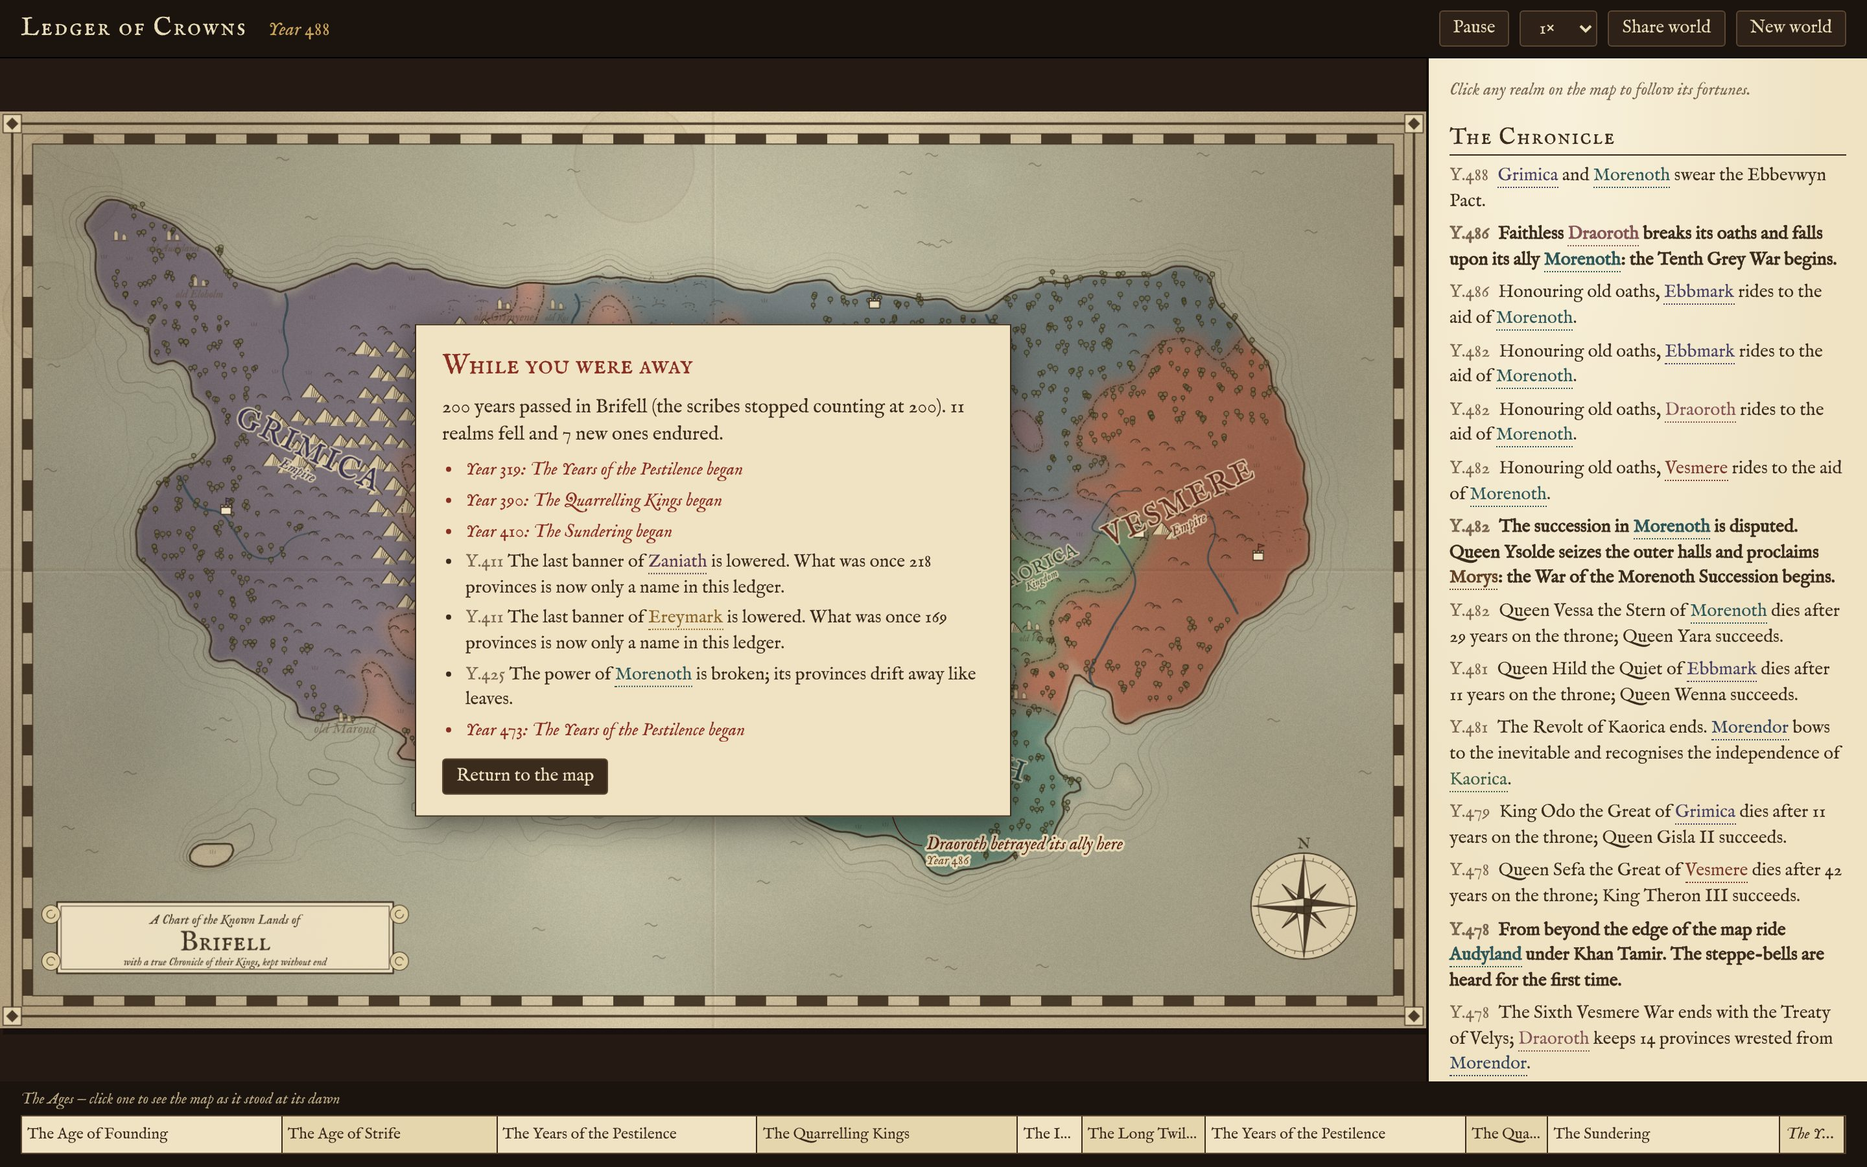
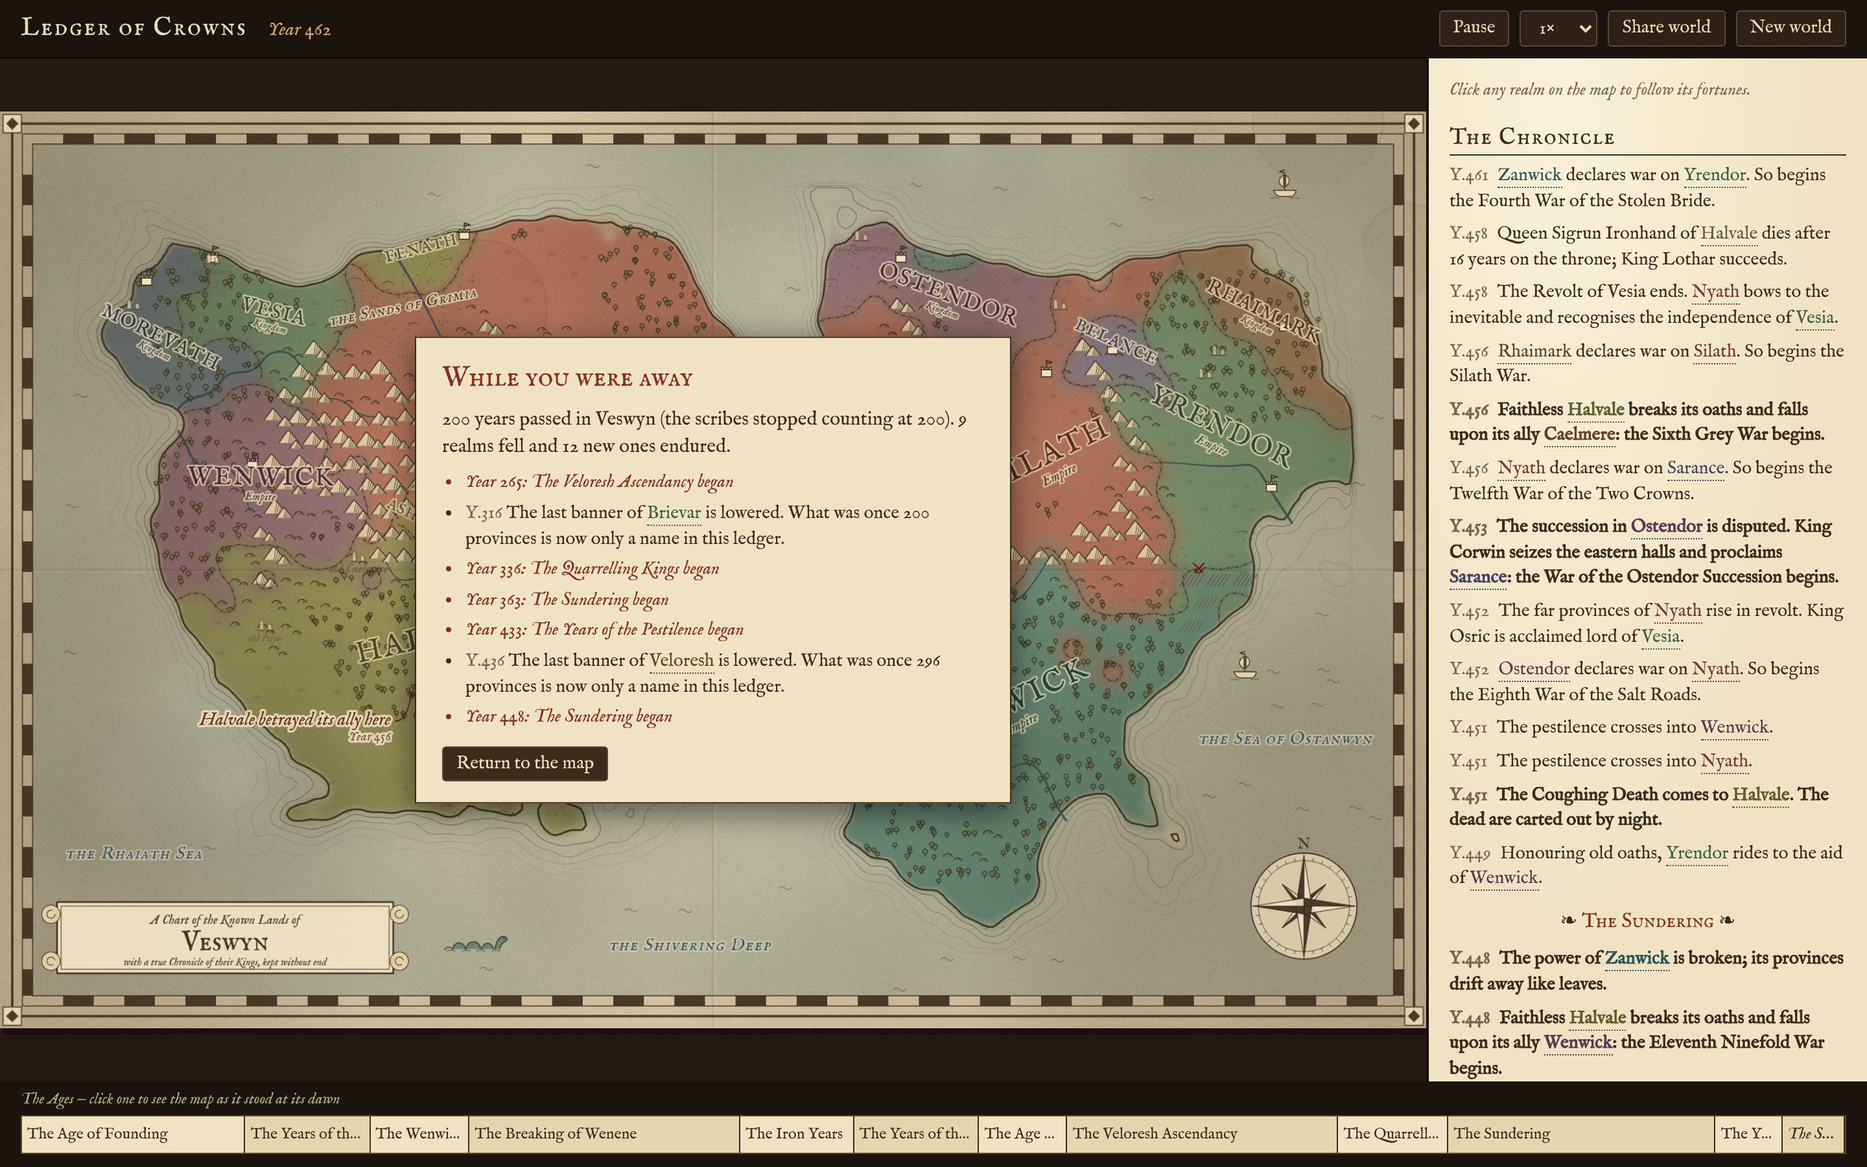
Give every world its own geography
- Worlds take one of four shapes: continent, twin lands across a strait, a
  continent around an inland sea, or an archipelago.
- Mountains follow ridgelines and form ranges.
- Seas, lakes, ranges, forests and deserts are named on the map.
- Dotted sea lanes link separate landmasses so islands can be reached.
- Ships and a sea serpent in open water; nothing crosses the frame.
- Saves move to a new key, since the same seed now makes different terrain.

Claude-Session: https://claude.ai/code/session_01HbhNXhFmDXk7axxV6X9tAC

diff --git a/index.html b/index.html
@@ -247,7 +247,7 @@ function warName(B) {
 
 // ---------- world state ----------
 let seed, worldName, gw, gh, F, thr, hexes, land, landCount, rivers, owner, distArr;
-let COLS, ROWS, X0, Y0, gOff, gHex, gW, liveFields, liveBorders, snapFields, snapBorders;
+let innerSea, archetype, features, lanes, seaBoxes = [], COLS, ROWS, X0, Y0, gOff, gHex, gW, liveFields, liveBorders, snapFields, snapBorders;
 let factions, wars, chron, eras, ruins, notes, tick, collapse, lastWarYear;
 let paperC, inkC, washC, washTmp, landBig, snapWashC, labels, snapLabels;
 let labelBoxes = [], dirty = true, ovDirty = true, follow = null, viewEra = null, ovC;
@@ -264,13 +264,26 @@ function decoPenalty(x, y) {
 function genWorld(s) {
   seed = s; rs = s | 0; R = rngNext;
   usedNames = new Set(); usedWars = new Map();
-  const nE = makeNoise(R), nE2 = makeNoise(R), nM = makeNoise(R);
+  const nE = makeNoise(R), nE2 = makeNoise(R), nM = makeNoise(R), nR = makeNoise(R);
+  // each world takes one of a few shapes, so they don't all look alike
+  archetype = pick(['continent', 'continent', 'twin', 'inland', 'archipelago']);
+  const ox = rnd(-.1, .1), oy = rnd(-.08, .08), wig = rnd(0, 6.3);
+  innerSea = { x: (.5 + ox) * MW, y: (.5 + oy) * MH };
   const elev = (x, y) => {
-    const e = fbm(nE, x / 330, y / 330, 5) * .8 + fbm(nE2, x / 105, y / 105, 3) * .2;
+    const u = x / MW, v = y / MH;
+    const e = archetype === 'archipelago'
+      ? fbm(nE, x / 190, y / 190, 5) * .7 + fbm(nE2, x / 80, y / 80, 3) * .3
+      : fbm(nE, x / 330, y / 330, 5) * .8 + fbm(nE2, x / 105, y / 105, 3) * .2;
     const ex = Math.min(x - MARGIN, MW - MARGIN - x) / (MW * .2), ey = Math.min(y - MARGIN, MH - MARGIN - y) / (MH * .22);
     const edge = smooth(clamp(Math.min(ex, ey), 0, 1));
-    return e - (1 - edge) * .35 - decoPenalty(x, y);
+    let sh = -(1 - edge) * (archetype === 'archipelago' ? .22 : .35);
+    if (archetype === 'twin') sh -= .3 * Math.exp(-(((u - .5 - ox * .5 - .06 * Math.sin(v * 5 + wig)) / .045) ** 2));    // a winding strait
+    if (archetype === 'inland') sh -= .32 * Math.exp(-(((u - .5 - ox) / .16) ** 2 + ((v - .5 - oy) / .13) ** 2));        // a sea at the heart
+    // nothing may cross the frame: the last 40 units inside it are always sea
+    sh -= .6 * (1 - smooth(clamp(Math.min(x - MARGIN, MW - MARGIN - x, y - MARGIN, MH - MARGIN - y) / 40, 0, 1)));
+    return e + sh - decoPenalty(x, y);
   };
+  const ridge = (x, y) => 1 - Math.abs(2 * fbm(nR, x / 170, y / 170, 4) - 1);
   gw = Math.ceil(MW / GS) + 1; gh = Math.ceil(MH / GS) + 1;
   F = new Float32Array(gw * gh);
   const inside = [];
@@ -280,7 +293,7 @@ function genWorld(s) {
     if (x > MARGIN && x < MW - MARGIN && y > MARGIN && y < MH - MARGIN) inside.push(v);
   }
   inside.sort((a, b) => a - b);
-  thr = inside[Math.floor(inside.length * .54)];
+  thr = inside[Math.floor(inside.length * (1 - ({ archipelago: .37, inland: .5 }[archetype] || .46)))];
 
   // hex grid (pointy-top, odd rows shifted right)
   const cols = Math.floor((MW - 2 * MARGIN - SQ3 * HR / 2) / (SQ3 * HR));
@@ -290,28 +303,24 @@ function genWorld(s) {
   hexes = [];
   for (let r = 0; r < rows; r++) for (let c = 0; c < cols; c++) {
     const x = x0 + SQ3 * HR * (c + .5 * (r & 1)), y = y0 + 1.5 * HR * r;
-    hexes.push({ i: hexes.length, c, r, x, y, e: elev(x, y), m: fbm(nM, x / 210, y / 210, 4), nb: [], ed: [], river: false, lastCap: -999 });
+    hexes.push({ i: hexes.length, c, r, x, y, e: elev(x, y), m: fbm(nM, x / 210, y / 210, 4), rg: ridge(x, y), nb: [], river: false, lastCap: -999 });
   }
   const at = (c, r) => (c < 0 || r < 0 || c >= cols || r >= rows) ? null : hexes[r * cols + c];
   const DIR = [[[1,0],[0,-1],[-1,-1],[-1,0],[-1,1],[0,1]], [[1,0],[1,-1],[0,-1],[-1,0],[0,1],[1,1]]];
   for (const h of hexes) {
     h.land = h.e > thr;
-    const corners = [];
-    for (let k = 0; k < 6; k++) { const a = Math.PI / 180 * (60 * k - 90); corners.push([h.x + HR * Math.cos(a), h.y + HR * Math.sin(a)]); }
-    for (const [dc, dr] of DIR[h.r & 1]) {
-      const n = at(h.c + dc, h.r + dr); if (!n) continue;
-      const cs = corners.map(p => [Math.hypot(p[0] - n.x, p[1] - n.y), p]).sort((a, b) => a[0] - b[0]);
-      h.nb.push(n.i); h.ed.push([cs[0][1][0], cs[0][1][1], cs[1][1][0], cs[1][1][1]]);
-    }
+    for (const [dc, dr] of DIR[h.r & 1]) { const n = at(h.c + dc, h.r + dr); if (n) h.nb.push(n.i); }
   }
   land = hexes.filter(h => h.land);
   landCount = land.length;
   const emax = Math.max(...land.map(h => h.e));
   const ms = land.map(h => h.m).sort((a, b) => a - b);
   const dryQ = ms[Math.floor(ms.length * .15)], wetQ = ms[Math.floor(ms.length * .62)];
+  // mountains follow ridgelines through the high ground, so they form ranges rather than blobs
+  for (const h of land) h.ms = h.rg * .65 + (h.e - thr) / (emax - thr) * .35;
+  const mq = land.map(h => h.ms).sort((a, b) => b - a), mtnQ = mq[Math.floor(mq.length * .11)], hillQ = mq[Math.floor(mq.length * .25)];
   for (const h of land) {
-    const en = (h.e - thr) / (emax - thr);
-    h.terrain = en > .6 ? 'mountain' : en > .42 ? 'hills' : h.m < dryQ ? 'desert' : h.m > wetQ ? 'forest' : 'plains';
+    h.terrain = h.ms >= mtnQ ? 'mountain' : h.ms >= hillQ ? 'hills' : h.m < dryQ ? 'desert' : h.m > wetQ ? 'forest' : 'plains';
     h.coast = h.nb.some(n => !hexes[n].land);
   }
   // rivers: walk downhill from high ground to the sea
@@ -337,6 +346,79 @@ function genWorld(s) {
     h.def = { plains: 1, forest: 1.3, hills: 1.5, desert: 1.1, mountain: 2.3 }[h.terrain];
   }
   worldName = placeName();
+  nameGeography();
+  buildLanes();
+}
+
+// connected groups of hexes matching a test, using plain adjacency
+function components(test) {
+  const comp = new Int32Array(hexes.length).fill(-1), groups = [];
+  for (const h of hexes) {
+    if (comp[h.i] >= 0 || !test(h)) continue;
+    const g = [h]; comp[h.i] = groups.length;
+    for (let k = 0; k < g.length; k++) for (const n of g[k].nb) if (comp[n] < 0 && test(hexes[n])) { comp[n] = groups.length; g.push(hexes[n]); }
+    groups.push(g);
+  }
+  return { comp, groups };
+}
+function shapeOf(g) {
+  let sx = 0, sy = 0, sxx = 0, syy = 0, sxy = 0;
+  for (const h of g) { sx += h.x; sy += h.y; sxx += h.x * h.x; syy += h.y * h.y; sxy += h.x * h.y; }
+  const n = g.length, mx = sx / n, my = sy / n, cxx = sxx / n - mx * mx, cyy = syy / n - my * my, cxy = sxy / n - mx * my;
+  let best = g[0], bd = Infinity;
+  for (const h of g) { const d = (h.x - mx) ** 2 + (h.y - my) ** 2; if (d < bd) { bd = d; best = h; } }
+  return { x: (mx + best.x) / 2, y: (my + best.y) / 2, ang: n < 4 ? 0 : clamp(.5 * Math.atan2(2 * cxy, cxx - cyy), -.6, .6), n };
+}
+// seas, lakes, ranges, forests and wastes each get a name, as on any proper map
+function nameGeography() {
+  features = [];
+  const ADJ = ['Grey', 'Whispering', 'Sunless', 'Drowned', 'Silver', 'Cold', 'Amber', 'Shivering', 'Glass'];
+  const add = (kind, g, name, size) => features.push({ kind, name, size, ...shapeOf(g) });
+  for (const g of components(h => h.land && h.terrain === 'mountain').groups) if (g.length >= 4)
+    add('land', g, pick([`the ${placeName()} Mountains`, `the ${placeName()} Peaks`, `the Spine of ${placeName()}`, `the ${placeName()} Teeth`]), clamp(11 + Math.sqrt(g.length) * 1.2, 13, 19));
+  for (const g of components(h => h.land && h.terrain === 'forest').groups) if (g.length >= 7)
+    add('land', g, pick([`the ${placeName()} Wood`, `${placeName()} Forest`, `the Greenwood of ${placeName()}`]), clamp(11 + Math.sqrt(g.length), 13, 18));
+  for (const g of components(h => h.land && h.terrain === 'desert').groups) if (g.length >= 5)
+    add('land', g, pick([`the ${placeName()} Waste`, `the Sands of ${placeName()}`]), clamp(11 + Math.sqrt(g.length), 13, 18));
+  // inland waters: sea that never reaches the edge of the chart
+  const water = components(h => !h.land);
+  for (const g of water.groups) {
+    if (g.some(h => h.c === 0 || h.r === 0 || h.c === COLS - 1 || h.r === ROWS - 1) || g.length < 3) continue;
+    add('sea', g, g.length < 12 ? `Lake ${placeName()}` : pick([`the Inner Sea`, `the ${placeName()} Sea`, `the Sea of ${placeName()}`]), clamp(10 + Math.sqrt(g.length) * 1.2, 11, 20));
+  }
+  // open water: name the parts of the ocean furthest from any shore
+  const dist = new Int16Array(hexes.length).fill(-1), q = [];
+  for (const h of land) { dist[h.i] = 0; q.push(h.i); }
+  for (let k = 0; k < q.length; k++) for (const n of hexes[q[k]].nb) if (dist[n] < 0) { dist[n] = dist[q[k]] + 1; q.push(n); }
+  const open = hexes.filter(h => !h.land && dist[h.i] >= 2 && decoPenalty(h.x, h.y) < .01 && h.x > MARGIN + 90 && h.x < MW - MARGIN - 90 && h.y > MARGIN + 30 && h.y < MH - MARGIN - 30)
+    .sort((a, b) => dist[b.i] - dist[a.i] + (R() - .5));
+  const spots = [];
+  // a world built around an inland sea names it first
+  if (archetype === 'inland') {
+    const c = hexes.filter(h => !h.land).reduce((a, h) => Math.hypot(h.x - innerSea.x, h.y - innerSea.y) < Math.hypot(a.x - innerSea.x, a.y - innerSea.y) ? h : a);
+    if (Math.hypot(c.x - innerSea.x, c.y - innerSea.y) < 60) { spots.push(c); features.push({ kind: 'sea', name: pick([`the Inner Sea`, `the Sea of ${placeName()}`, `the ${placeName()} Sea`]), size: 19, x: c.x, y: c.y, ang: 0, n: 99 }); }
+  }
+  const inner = spots.length;
+  for (const h of open) if (spots.length < 3 + inner && spots.every(o => Math.hypot(o.x - h.x, o.y - h.y) > 380)) spots.push(h);
+  for (const h of spots.slice(inner)) features.push({ kind: 'sea', name: pick([`the ${placeName()} Sea`, `the Sea of ${placeName()}`, `the ${pick(ADJ)} Reach`, `the ${pick(ADJ)} Deep`]), size: 17, x: h.x, y: h.y, ang: 0, n: 99 });
+  features.openSea = open.filter(h => dist[h.i] >= 3);
+}
+// short crossings between separate landmasses, so islands are reachable by ship
+function buildLanes() {
+  lanes = [];
+  const { comp } = components(h => h.land), coast = land.filter(h => h.coast), cand = [];
+  for (let a = 0; a < coast.length; a++) for (let b = a + 1; b < coast.length; b++) {
+    const h = coast[a], g = coast[b]; if (comp[h.i] === comp[g.i]) continue;
+    const d = Math.hypot(h.x - g.x, h.y - g.y); if (d < 70) cand.push([d, h, g]);
+  }
+  cand.sort((p, q) => p[0] - q[0]);
+  const perPair = new Map();
+  for (const [, h, g] of cand) {
+    const key = Math.min(comp[h.i], comp[g.i]) + ':' + Math.max(comp[h.i], comp[g.i]), got = perPair.get(key) || [];
+    if (got.length >= 2 || got.some(([p, q]) => Math.hypot(p.x - h.x, p.y - h.y) < 120 || Math.hypot(q.x - g.x, q.y - g.y) < 120)) continue;
+    got.push([h, g]); perPair.set(key, got);
+    h.nb.push(g.i); g.nb.push(h.i); lanes.push([h, g]);
+  }
 }
 
 // ---------- marching squares ----------
@@ -580,9 +662,60 @@ function renderInk() {
     }
   }
   x.globalAlpha = 1;
+  drawSeaLife(x);
   drawFrame(x); drawCompass(x); drawCartouche(x);
 }
 
+function spacedLabel(x, text, px, py, ang, size, color, halo) {
+  x.save(); x.translate(px, py); x.rotate(ang);
+  x.font = `italic ${size}px "IM Fell English SC", Georgia, serif`; x.textAlign = 'center'; x.textBaseline = 'middle';
+  const t = text.split('').join('\u200a');
+  if (halo) { x.lineWidth = 3; x.strokeStyle = halo; x.strokeText(t, 0, 0); }
+  x.fillStyle = color; x.fillText(t, 0, 0);
+  const w = x.measureText(t).width; x.restore();
+  const ca = Math.abs(Math.cos(ang)), sa = Math.abs(Math.sin(ang)), hx = ca * w / 2 + sa * size * .6, hy = sa * w / 2 + ca * size * .6;
+  return { x0: px - hx, x1: px + hx, y0: py - hy, y1: py + hy };
+}
+function drawSeaLife(x) {
+  const sr = mulberry32(seed ^ 0x5ea);
+  x.save();
+  // sea lanes: dotted crossings between landmasses
+  x.strokeStyle = '#3d5560'; x.globalAlpha = .55; x.lineWidth = 1; x.setLineDash([.1, 4]); x.lineCap = 'round';
+  for (const [a, b] of lanes) {
+    const mx = (a.x + b.x) / 2, my = (a.y + b.y) / 2, nx = -(b.y - a.y) * .18, ny = (b.x - a.x) * .18;
+    x.beginPath(); x.moveTo(a.x, a.y); x.quadraticCurveTo(mx + nx, my + ny, b.x, b.y); x.stroke();
+  }
+  x.setLineDash([]); x.globalAlpha = 1;
+  // names of seas and lakes
+  seaBoxes = [];
+  for (const f of features) if (f.kind === 'sea') seaBoxes.push(spacedLabel(x, f.name, f.x, f.y, f.ang, f.size, '#3d5560', 'rgba(222,214,190,.6)'));
+  // a few ships and, somewhere far out, a serpent
+  const free = features.openSea.filter(h => seaBoxes.every(b => h.x < b.x0 - 40 || h.x > b.x1 + 40 || h.y < b.y0 - 30 || h.y > b.y1 + 30));
+  const used = [];
+  const spot = () => { for (let k = 0; k < 60 && free.length; k++) { const h = free[Math.floor(sr() * free.length)]; if (used.every(u => Math.hypot(u.x - h.x, u.y - h.y) > 200)) { used.push(h); return h; } } return null; };
+  for (let k = 0; k < 3; k++) { const h = spot(); if (h) ship(x, h.x, h.y, sr() < .5 ? -1 : 1); }
+  const sp = spot(); if (sp) serpent(x, sp.x, sp.y);
+  x.restore();
+}
+function ship(x, px, py, dir) {
+  x.save(); x.translate(px, py); x.scale(dir, 1); x.strokeStyle = INK; x.lineWidth = .9; x.fillStyle = '#e8d9b2'; x.globalAlpha = .9;
+  x.beginPath(); x.moveTo(-11, 0); x.lineTo(11, 0); x.quadraticCurveTo(9, 5, 5, 6); x.lineTo(-7, 6); x.quadraticCurveTo(-11, 4, -11, 0); x.closePath(); x.fill(); x.stroke();
+  x.beginPath(); x.moveTo(0, 0); x.lineTo(0, -17); x.stroke();
+  x.beginPath(); x.moveTo(-1, -15); x.quadraticCurveTo(-8, -10, -1, -4); x.closePath(); x.fill(); x.stroke();
+  x.beginPath(); x.moveTo(1, -15); x.quadraticCurveTo(10, -9, 1, -3); x.closePath(); x.fill(); x.stroke();
+  x.beginPath(); x.moveTo(0, -17); x.lineTo(5, -18.5); x.lineTo(0, -20); x.stroke();
+  x.globalAlpha = .45; x.beginPath(); x.moveTo(-14, 8); x.quadraticCurveTo(-10, 6.5, -6, 8); x.moveTo(6, 8); x.quadraticCurveTo(10, 6.5, 14, 8); x.stroke();
+  x.restore();
+}
+function serpent(x, px, py) {
+  x.save(); x.translate(px, py); x.strokeStyle = INK; x.lineWidth = 1; x.fillStyle = '#5e7a72'; x.globalAlpha = .85;
+  for (const [cx, r] of [[-18, 6], [-4, 7], [10, 5.5]]) { x.beginPath(); x.arc(cx, 2, r, Math.PI, 0); x.fill(); x.stroke(); }
+  x.beginPath(); x.moveTo(17, 2); x.quadraticCurveTo(20, -12, 27, -10); x.quadraticCurveTo(31, -8, 27, -5); x.quadraticCurveTo(23, -4, 22, 2); x.fill(); x.stroke();
+  x.fillStyle = INK; x.beginPath(); x.arc(26, -8.5, .9, 0, 7); x.fill();
+  x.beginPath(); x.moveTo(-24, 2); x.quadraticCurveTo(-30, -2, -32, 3); x.stroke();
+  x.globalAlpha = .45; x.beginPath(); for (const cx of [-26, -11, 3, 18]) { x.moveTo(cx - 4, 4); x.quadraticCurveTo(cx, 2.5, cx + 4, 4); } x.stroke();
+  x.restore();
+}
 function drawFrame(x) {
   const o = 12, i2 = MARGIN - 6, mid = (o + i2) / 2;
   x.strokeStyle = INK; x.fillStyle = INK; x.globalAlpha = .9;
@@ -1143,13 +1276,13 @@ function newWorld(s) {
 // ---------- saving & resuming ----------
 // The world lives in this browser's storage. Terrain is rebuilt from the seed; everything
 // that happened since is saved, and time that passed while the page was closed is replayed.
-const SAVE_KEY = 'ledger-of-crowns-v1', PREV_KEY = 'ledger-of-crowns-v1-set-aside', MAX_CATCHUP_YEARS = 200;
+const SAVE_KEY = 'ledger-of-crowns-v2', PREV_KEY = 'ledger-of-crowns-v2-set-aside', MAX_CATCHUP_YEARS = 200;
 const b64 = a => { const u = new Uint8Array(a.buffer, a.byteOffset, a.byteLength); let str = ''; for (let i = 0; i < u.length; i += 0x8000) str += String.fromCharCode.apply(null, u.subarray(i, i + 0x8000)); return btoa(str); };
 const unb64 = str => { const bin = atob(str), u = new Uint8Array(bin.length); for (let i = 0; i < bin.length; i++) u[i] = bin.charCodeAt(i); return new Int16Array(u.buffer); };
 function packWorld(maxSnaps) {
   const now = year();
   return {
-    v: 1, seed, rs, tick, savedAt: Date.now(), paused, speed, follow, worldName,
+    v: 2, seed, rs, tick, savedAt: Date.now(), paused, speed, follow, worldName,
     owner: b64(owner), caps: land.filter(h => tick - h.lastCap < 36).map(h => [h.i, h.lastCap]),
     factions: factions.map(f => {
       const { fronts, wildFront, allies, truce, log, rulers, ...rest } = f;
@@ -1171,7 +1304,7 @@ function saveWorld() {
   }
 }
 function loadSave() {
-  try { const raw = localStorage.getItem(SAVE_KEY); const sv = raw && JSON.parse(raw); return sv && sv.v === 1 ? sv : null; } catch (e) { return null; }
+  try { const raw = localStorage.getItem(SAVE_KEY); const sv = raw && JSON.parse(raw); return sv && sv.v === 2 ? sv : null; } catch (e) { return null; }
 }
 function restoreWorld(sv) {
   initWorld(sv.seed);
@@ -1287,6 +1420,7 @@ function drawOverlay(x, own, labs, live, fields, borders) {
   const boxes = [
     { x0: CART.x - 6, y0: CART.y - 6, x1: CART.x + CART.w + 6, y1: CART.y + CART.h + 6 },
     { x0: COMPASS.x - COMPASS.r - 6, y0: COMPASS.y - COMPASS.r - 22, x1: COMPASS.x + COMPASS.r + 6, y1: COMPASS.y + COMPASS.r + 6 },
+    ...seaBoxes,
   ];
   const hit = b => boxes.some(o => b.x0 < o.x1 && b.x1 > o.x0 && b.y0 < o.y1 && b.y1 > o.y0);
   const inFrame = b => b.x0 > MARGIN && b.x1 < MW - MARGIN && b.y0 > MARGIN && b.y1 < MH - MARGIN;
@@ -1308,6 +1442,16 @@ function drawOverlay(x, own, labs, live, fields, borders) {
       if (k === .72 && l.n >= 30) done = { c: l.cands[0], size, b: boxAt(l.cands[0], size, w) };   // a great realm is always named
     }
     if (done) { boxes.push(done.b); placed.push({ l, ...done }); }
+  }
+  // mountain ranges, forests and wastes, in lighter ink, wherever the realms leave room
+  for (const f of features) {
+    if (f.kind !== 'land') continue;
+    x.font = `italic ${f.size}px "IM Fell English SC", Georgia, serif`;
+    const w = x.measureText(f.name.split('').join('\u200a')).width + 6, ca = Math.abs(Math.cos(f.ang)), sa = Math.abs(Math.sin(f.ang));
+    const b = { x0: f.x - ca * w / 2 - sa * f.size * .6, x1: f.x + ca * w / 2 + sa * f.size * .6, y0: f.y + 8 - sa * w / 2 - ca * f.size * .6, y1: f.y + 8 + sa * w / 2 + ca * f.size * .6 };
+    if (hit(b) || !inFrame(b)) continue;
+    boxes.push(b);
+    spacedLabel(x, f.name, f.x, f.y + 8, f.ang, f.size, '#4a3826', 'rgba(236,222,186,.8)');
   }
   // capitals
   for (const l of labs) { const c = hexes[l.capital]; if (c && own[c.i] === l.id) castle(x, c.x, c.y, l.color); }

diff --git a/README.md b/README.md
@@ -4,7 +4,7 @@ A history that writes itself. Realms rise, wage war, swear pacts, betray their a
 
 There is no player. You watch, follow a realm you care about, and come back later to find out what happened.
 
-![The map in year 288, following the Empire of Morenoth](docs/map.jpg)
+![The map in year 262: twin lands across a strait, following the Empire of Veloresh](docs/map.jpg)
 
 ## Running it
 
@@ -17,9 +17,11 @@ Open `index.html` in a browser. There is no build step and nothing to install. T
 
 ## What it does
 
+**No two worlds share a shape.** Each seed picks a kind of world: a single continent, twin lands divided by a winding strait, a continent wrapped around an inland sea, or an archipelago. Mountains follow ridgelines, so they form ranges instead of blobs. Every sea, lake, mountain range, great forest and desert gets a name. Short dotted sea lanes link separate landmasses, so island realms can be reached and conquered. Ships and the occasional sea serpent fill the open water.
+
 **The map is drawn, not tiled.** Each world is generated from a seed. Fractal noise makes the terrain. The coastline and the offshore ripple lines are traced from the height map with marching squares. Mountains, hills, forests and dunes are drawn as ink symbols, and rivers run downhill to the sea. Each realm's territory is a smooth field rather than a set of hexes: its watercolour wash and its dash-dot border are contours of that field, so borders curve the way a cartographer would draw them.
 
-![Detail: watercolour washes, ink borders, a note marking the breaking of an empire](docs/detail.jpg)
+![Detail: watercolour washes, ink borders, a named forest, a ship and a note marking a pretender's rising](docs/detail.jpg)
 
 **The simulation resists stagnation.** Most self-running strategy simulations settle into one empire covering the map within minutes. Here, power falls off sharply as a realm grows. Provinces far from the capital grow restless and revolt, more often in any realm holding over 30% of the land. Successions can split a realm in two, rivals form coalitions against whoever is largest, and plague and hordes hit the biggest realms hardest. Small realms bend the knee to large neighbours, so the map holds around 10 to 20 realms at a time. Across test runs of 600 years, the largest realm peaked at 30% to 40% of the land and then broke apart.
 
